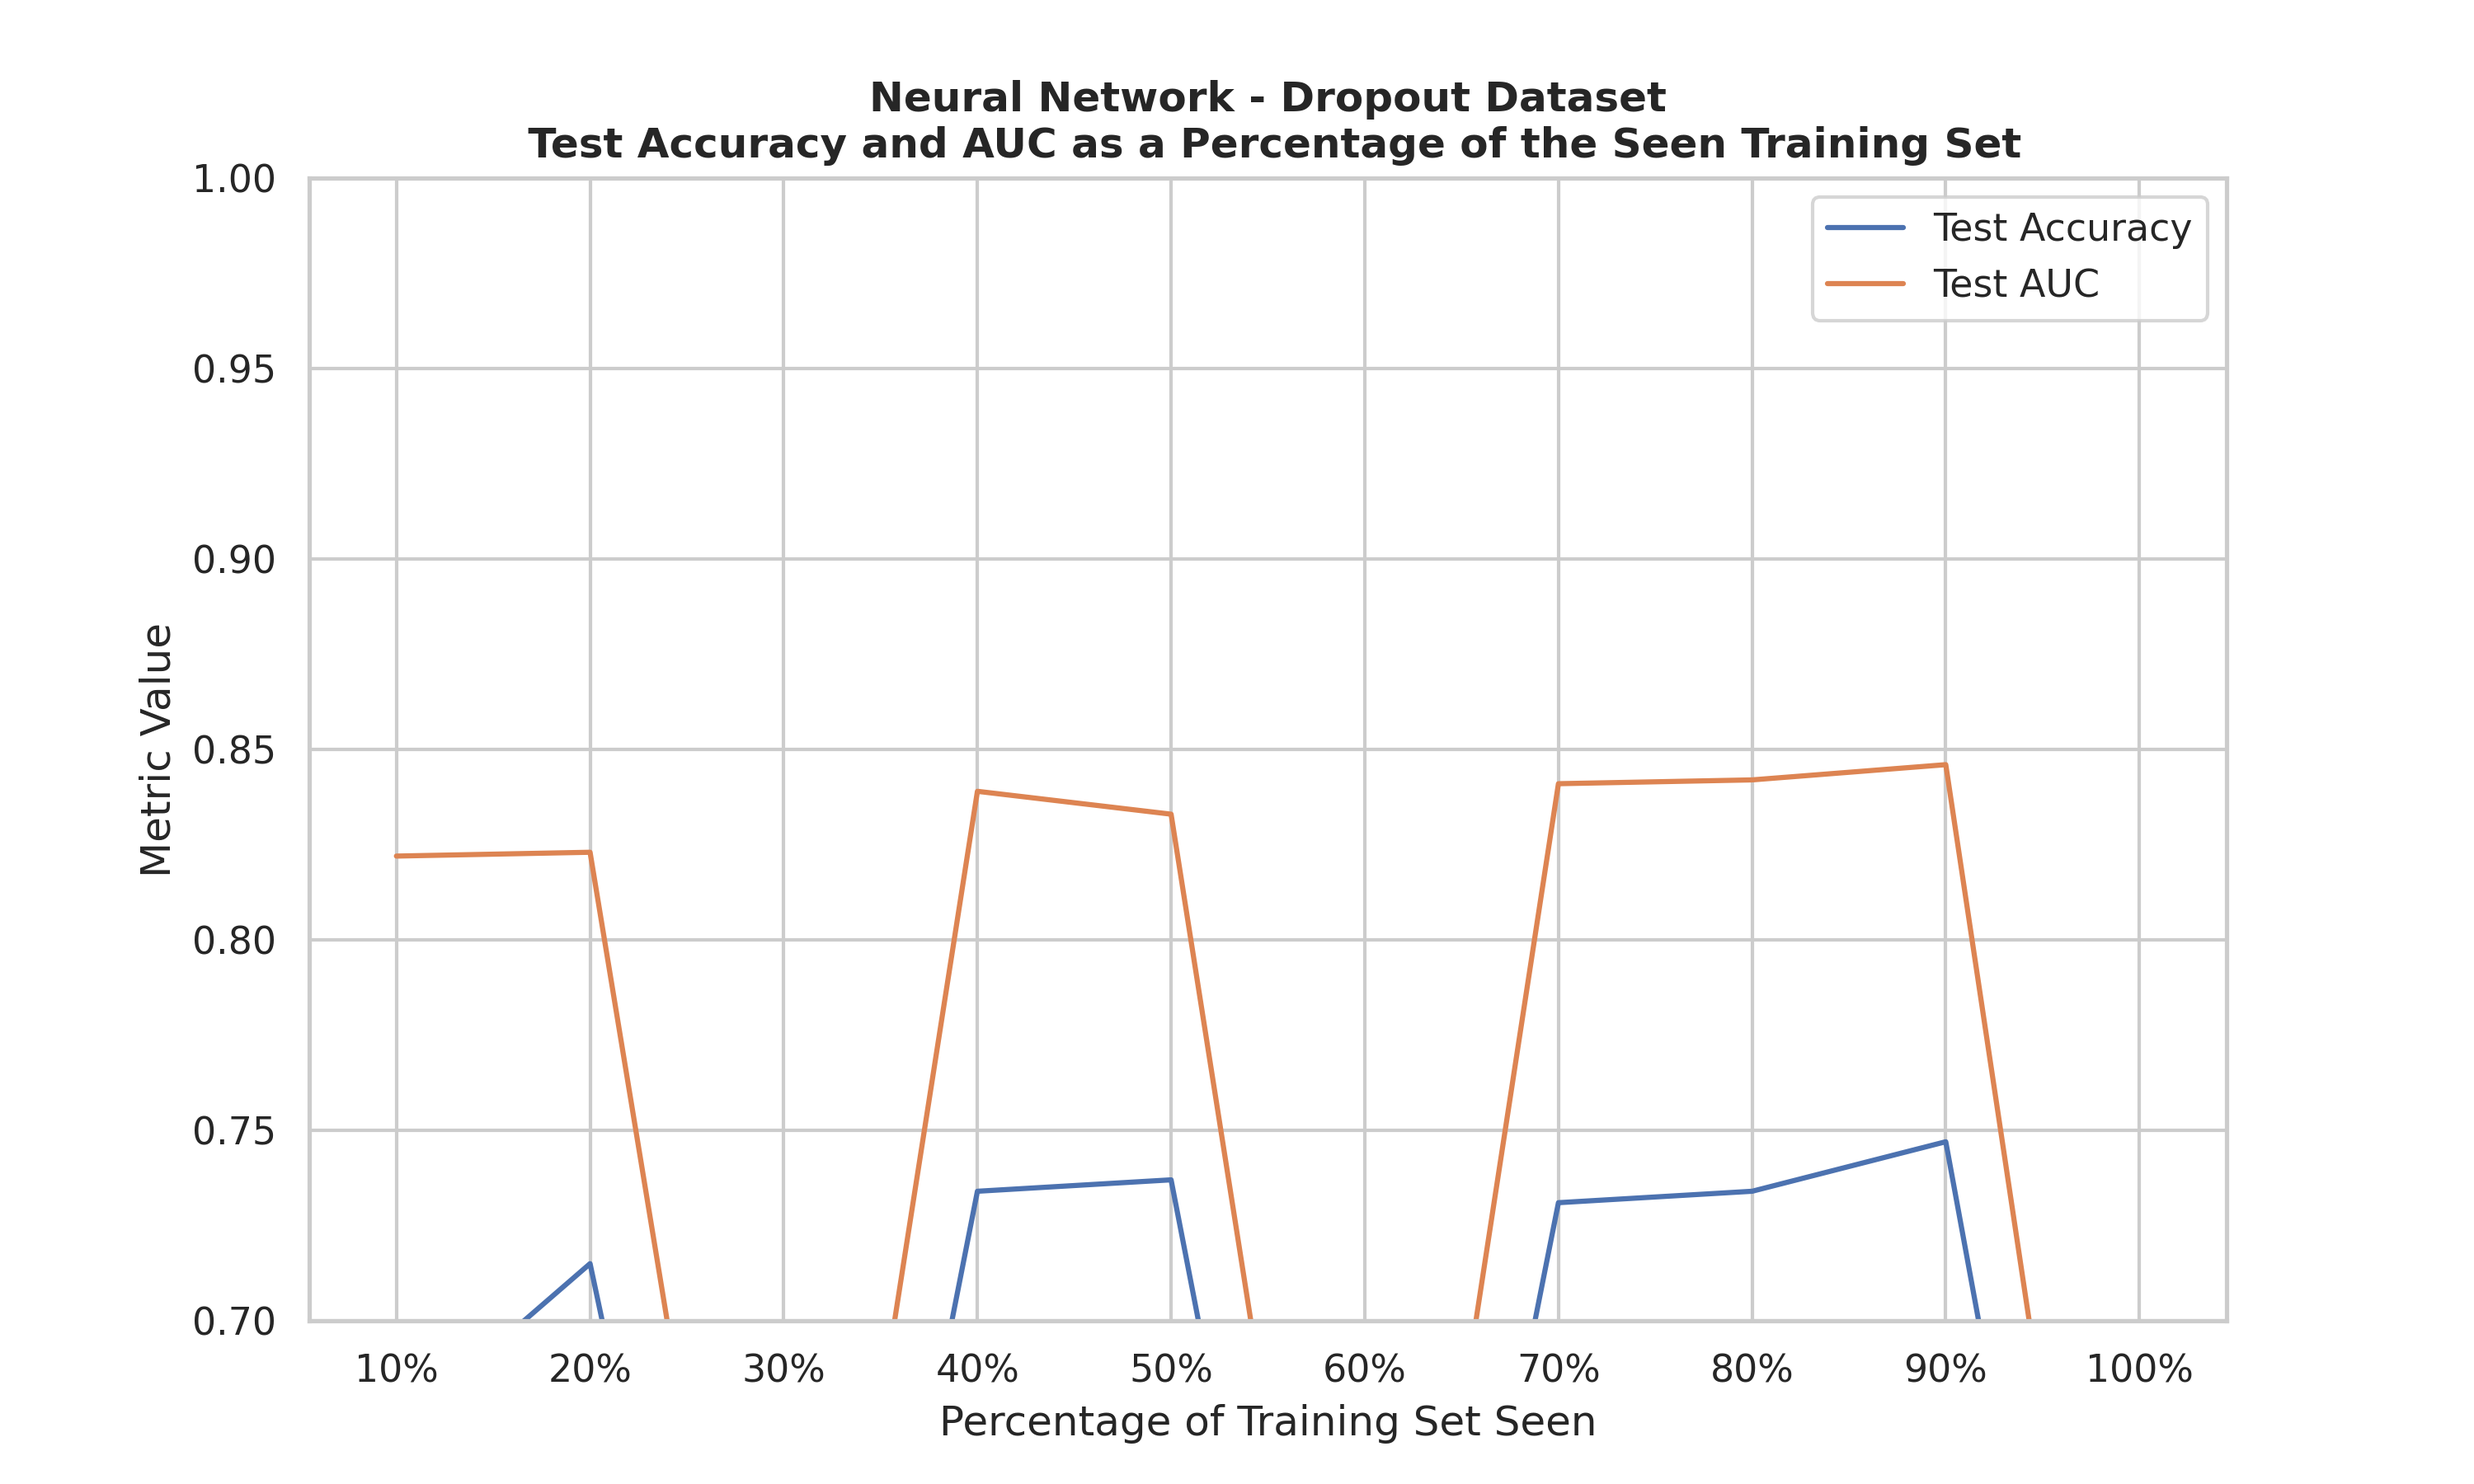
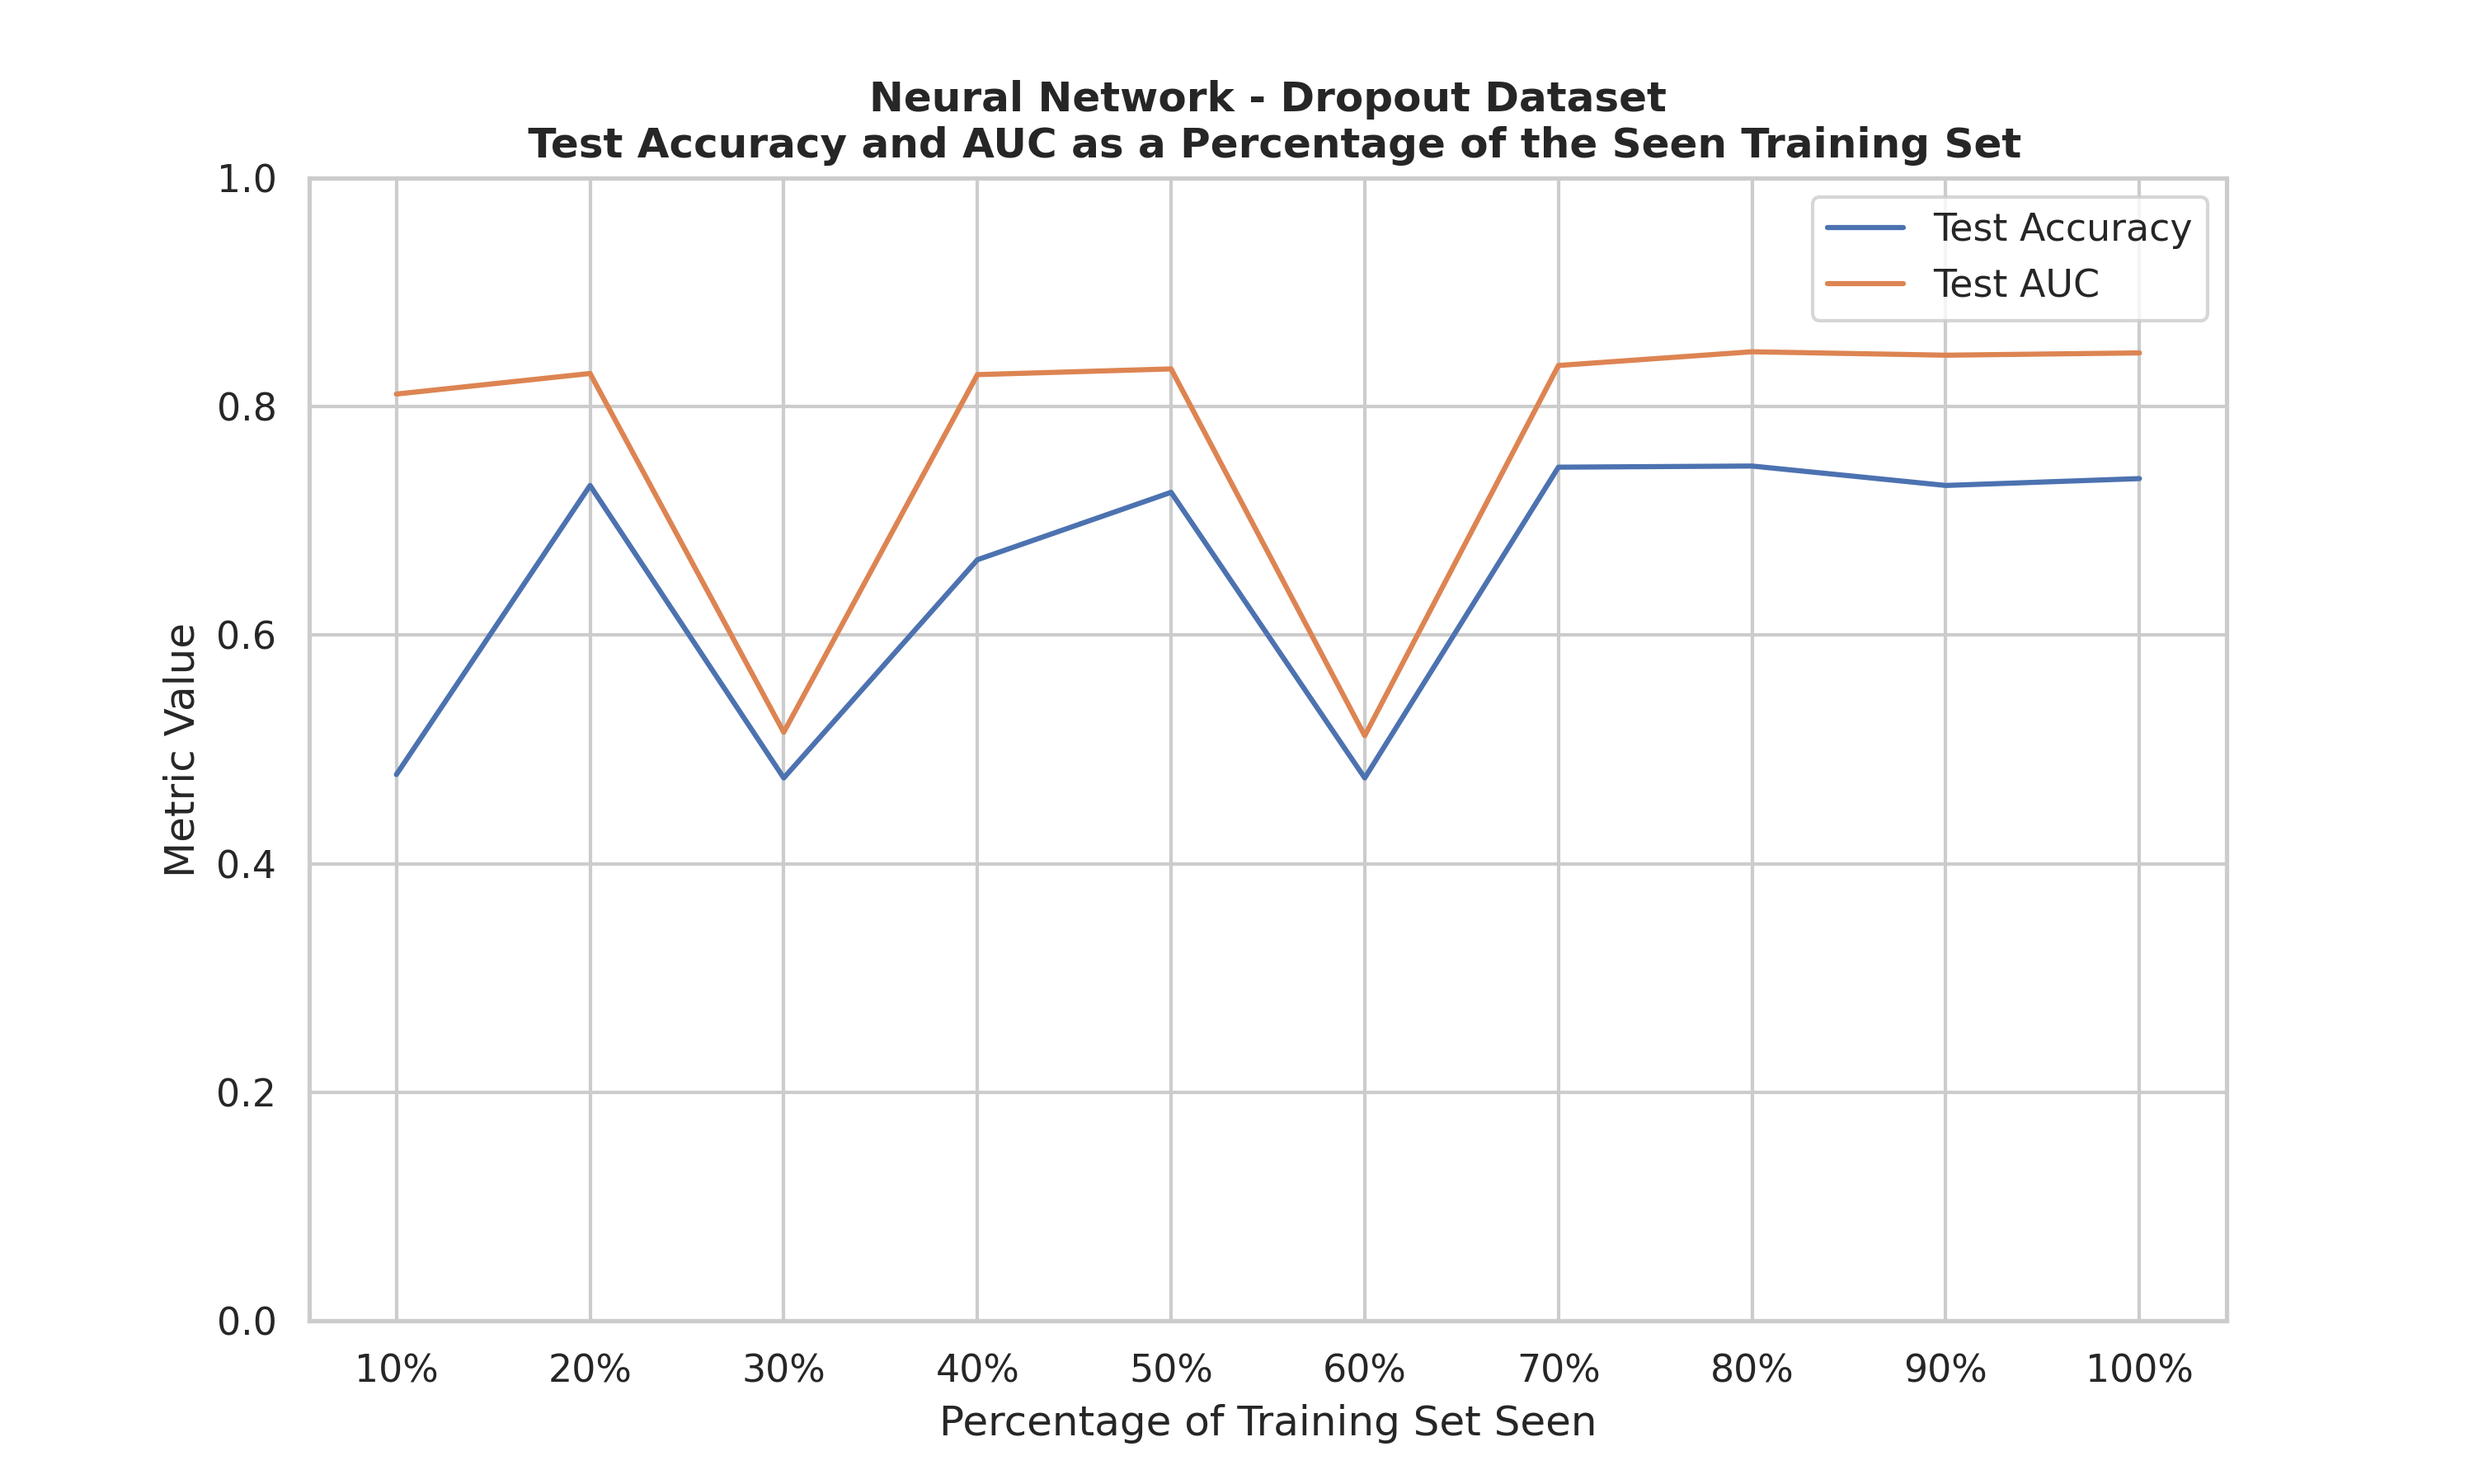
got all important curves

diff --git a/main/main.py b/main/main.py
@@ -924,25 +924,19 @@ def get_neural_network_percentage_curves() -> None:
         dataset_type="dropout",
         epochs=500,
         learning_rate=0.001,
-        y_bounds=[0.0, 1.0],
+        y_bounds=[0.35, 1.0],
     )
 
 
 if __name__ == "__main__":
     np.random.seed(1234)
 
-    # get_auction_verification_model_metrics()
-    # get_student_dropout_model_metrics()
+    get_auction_verification_model_metrics()
+    get_student_dropout_model_metrics()
 
-    # get_auction_percentage_curves()
-    # get_dropout_percentage_curves()
+    get_auction_percentage_curves()
+    get_dropout_percentage_curves()
 
-    # get_neural_network_percentage_curves()
+    get_neural_network_percentage_curves()
 
-    neural_network_percentage_curves(
-        filename="../data/student_dropout_dataset/data.csv",
-        dataset_type="dropout",
-        epochs=500,
-        learning_rate=0.001,
-        y_bounds=[0.0, 1.0],
-    )
+    
